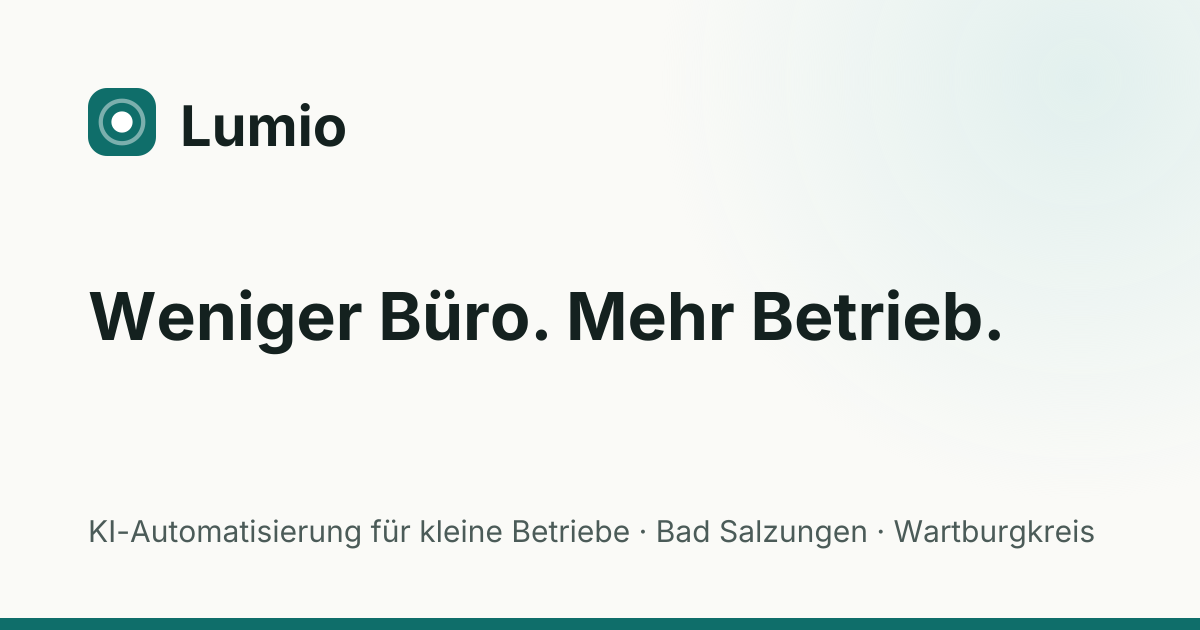
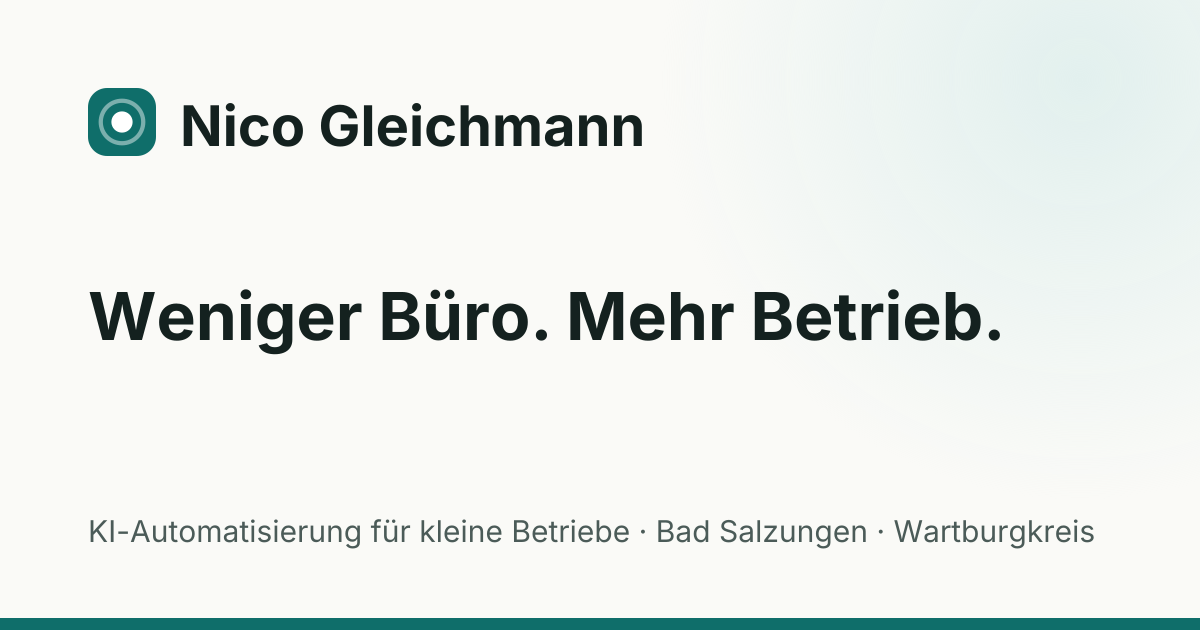
Auftritt unter eigenem Namen statt „Lumio“
Der Arbeitstitel ist in den Markenklassen 9, 35 und 42 belegt.

- Name im Logo, Seitentitel, Footer, Vorschaubild und in den strukturierten Daten: Nico Gleichmann
- Unterzeile „KI-Automatisierung & Websites“ neben dem Namen
- Handy: Name zweizeilig, damit Kopfzeile und Button nebeneinander passen
- Startseiten-Titel: Suchbegriffe zuerst, Name danach
- README und Paketname angepasst, Hinweis zur Markenprüfung ergänzt

Claude-Session: https://claude.ai/code/session_0164jEaio29xKSTDzuBDvEnu

Changed region(s): [[0.1542, 0.1508, 0.555, 0.2413]]

diff --git a/src/config/site.ts b/src/config/site.ts
@@ -11,8 +11,15 @@
  */
 
 export const site = {
-  /** Marken-/Firmenname (Arbeitstitel). Erscheint im Logo, im Seitentitel, im Footer. */
-  name: 'Lumio',
+  /**
+   * Name, unter dem das Angebot auftritt (Logo, Seitentitel, Footer, strukturierte Daten).
+   * Derzeit der eigene Name: Der frühere Arbeitstitel war in den Markenklassen 9, 35 und 42 bereits belegt.
+   * Vor einem Wechsel auf einen Fantasienamen im DPMA-Register und in TMview prüfen.
+   */
+  name: 'Nico Gleichmann',
+
+  /** Kurze Unterzeile neben dem Namen im Logo (Kopf- und Fußzeile). */
+  taetigkeit: 'KI-Automatisierung & Websites',
 
   /** Kurzer Slogan – im Footer, im Vorschaubild und in der Seitenbeschreibung. */
   slogan: 'Weniger Büro. Mehr Betrieb.',

diff --git a/README.md b/README.md
@@ -1,4 +1,4 @@
-# Lumio – Website
+# Website: Nico Gleichmann – KI-Automatisierung & Websites
 
 Einseitige Website für KI-Automatisierungen und KI-Agents für kleine Betriebe (Region Bad Salzungen / Wartburgkreis).
 Ziel der Seite: Inhaber buchen ein kostenloses Erstgespräch.
@@ -56,6 +56,7 @@ lesen von dort.
 - Werte, die mit `[[TODO` beginnen, erscheinen auf der Seite **gelb markiert**.
 - Telefon nicht gewünscht? `telefon: ''` – dann wird es überall ausgeblendet.
 - **Nach einer Namens- oder Slogan-Änderung:** `npm run og` ausführen (erzeugt das Vorschaubild für WhatsApp, LinkedIn & Co. neu).
+- **Neuer Marken- oder Fantasiename?** Vorher im [DPMA-Register](https://register.dpma.de) und in [TMview](https://www.tmdn.org/tmview/) prüfen, ob er in den Klassen 9, 35 und 42 frei ist. Bis dahin tritt das Angebot unter dem eigenen Namen auf.
 
 ### Texte der Abschnitte → `src/content/texte.ts`
 
